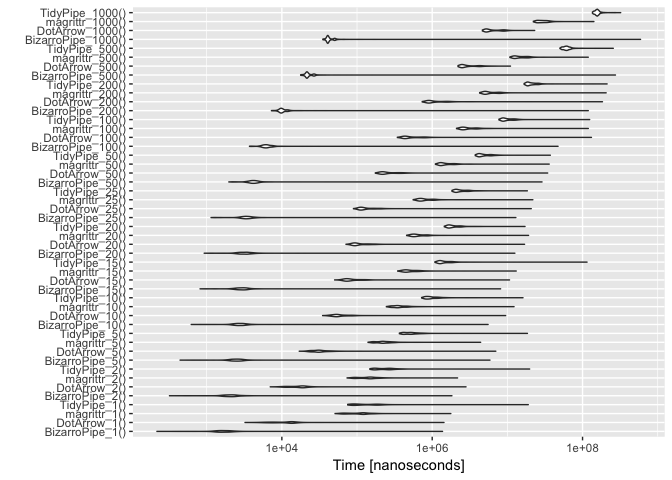
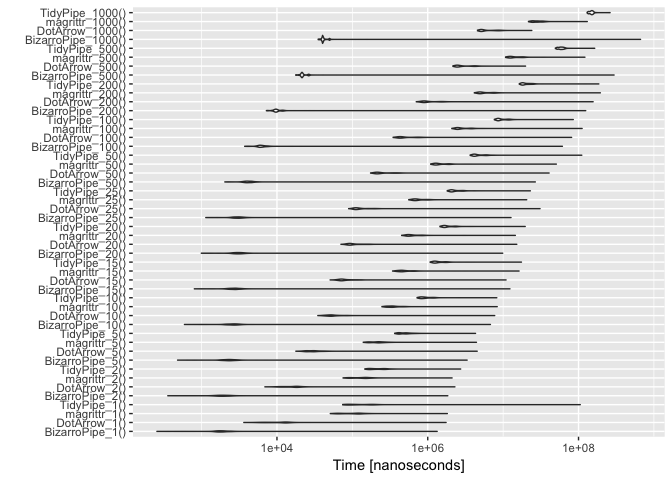
b alone experiment

diff --git a/extras/PipePerformance.md b/extras/PipePerformance.md
@@ -149,103 +149,103 @@ print(bm)
 
     ## Unit: nanoseconds
     ##                expr       min          lq         mean      median
-    ##     BizarroPipe_1()       218      1397.0 3.109475e+03      1653.5
-    ##        DotArrow_1()      3238      7599.5 1.274373e+04     12109.5
-    ##        magrittr_1()     51069     76941.5 1.148523e+05    114172.5
-    ##        TidyPipe_1()     75174     91547.5 1.652012e+05    117884.5
-    ##     BizarroPipe_2()       320      1748.5 3.936076e+03      2062.5
-    ##        DotArrow_2()      7009     12872.5 2.009926e+04     17551.5
-    ##        magrittr_2()     73854    106030.0 1.501026e+05    143907.5
-    ##        TidyPipe_2()    148224    176038.0 2.650344e+05    231602.0
-    ##     BizarroPipe_5()       443      2137.0 8.440663e+03      2482.0
-    ##        DotArrow_5()     17042     26224.5 4.039380e+04     30954.5
-    ##        magrittr_5()    140211    186803.5 2.437563e+05    222712.0
-    ##        TidyPipe_5()    366313    429333.5 5.845052e+05    509491.5
-    ##    BizarroPipe_10()       623      2394.0 8.344731e+03      2739.5
-    ##       DotArrow_10()     34869     49264.0 7.343193e+04     55587.5
-    ##       magrittr_10()    245946    310488.0 4.154114e+05    354013.5
-    ##       TidyPipe_10()    723450    838566.5 1.068695e+06    936349.5
-    ##    BizarroPipe_15()       817      2511.5 1.109206e+04      2920.0
-    ##       DotArrow_15()     50378     70260.0 1.014334e+05     78234.5
-    ##       magrittr_15()    347544    433219.5 5.595113e+05    485352.5
-    ##       TidyPipe_15()   1087761   1250994.5 1.702316e+06   1361850.0
-    ##    BizarroPipe_20()       927      2722.5 1.583884e+04      3181.5
-    ##       DotArrow_20()     71378     90644.5 1.304372e+05     98714.0
-    ##       magrittr_20()    457445    551873.0 7.120750e+05    615352.0
-    ##       TidyPipe_20()   1449843   1654513.0 2.054775e+06   1814017.5
-    ##    BizarroPipe_25()      1144      2980.5 1.638177e+04      3370.5
-    ##       DotArrow_25()     89626    109885.0 1.601126e+05    120508.0
-    ##       magrittr_25()    558557    677632.5 8.563041e+05    744380.0
-    ##       TidyPipe_25()   1833798   2060648.5 2.585369e+06   2260987.5
-    ##    BizarroPipe_50()      1973      3760.5 3.314512e+04      4173.5
-    ##       DotArrow_50()    175390    211465.5 3.068196e+05    232438.5
-    ##       magrittr_50()   1104993   1286926.5 1.664156e+06   1410583.5
-    ##       TidyPipe_50()   3742446   4175182.5 5.083042e+06   4598547.0
-    ##   BizarroPipe_100()      3712      5702.5 5.363308e+04      6243.5
-    ##      DotArrow_100()    344215    425149.0 7.031771e+05    468162.5
-    ##      magrittr_100()   2107606   2508324.5 3.325931e+06   2777386.0
-    ##      TidyPipe_100()   7726495   8718501.5 1.088712e+07   9518883.0
-    ##   BizarroPipe_200()      7275      9484.0 1.297401e+05     10017.0
-    ##      DotArrow_200()    736451    885058.0 1.364754e+06    966577.0
-    ##      magrittr_200()   4279834   4977490.0 6.386656e+06   5442331.0
-    ##      TidyPipe_200()  16723246  18520060.5 2.198805e+07  20122123.0
-    ##   BizarroPipe_500()     17810     21170.5 2.972812e+05     21803.0
-    ##      DotArrow_500()   2210000   2462117.0 3.148965e+06   2665635.5
-    ##      magrittr_500()  10810548  12515482.0 1.548989e+07  14198635.0
-    ##      TidyPipe_500()  50019184  56973590.5 6.269668e+07  61106726.5
-    ##  BizarroPipe_1000()     35102     40348.5 6.349440e+05     41203.0
-    ##     DotArrow_1000()   4660448   5210341.0 6.685229e+06   5720847.0
-    ##     magrittr_1000()  22192683  25681100.0 3.088134e+07  29275654.0
-    ##     TidyPipe_1000() 135666126 149513024.0 1.589639e+08 156397013.0
+    ##     BizarroPipe_1()       256      1615.0 3.192484e+03      1825.5
+    ##        DotArrow_1()      3637      7481.5 1.263640e+04     11613.0
+    ##        magrittr_1()     51069     71147.0 1.070230e+05    106340.5
+    ##        TidyPipe_1()     74490     89893.0 2.431539e+05    114490.0
+    ##     BizarroPipe_2()       357      1628.0 3.766533e+03      1904.0
+    ##        DotArrow_2()      6924     12427.5 1.859578e+04     16817.5
+    ##        magrittr_2()     75423     99747.5 1.434201e+05    137132.5
+    ##        TidyPipe_2()    146635    171530.5 2.290960e+05    209813.0
+    ##     BizarroPipe_5()       481      1980.0 5.619438e+03      2302.0
+    ##        DotArrow_5()     17834     25026.5 3.657069e+04     29377.5
+    ##        magrittr_5()    139718    175026.0 2.297319e+05    217663.0
+    ##        TidyPipe_5()    364502    418537.0 5.186365e+05    487692.5
+    ##    BizarroPipe_10()       593      2218.5 9.377049e+03      2601.0
+    ##       DotArrow_10()     34859     47145.5 7.013821e+04     53036.5
+    ##       magrittr_10()    246990    296851.5 3.740964e+05    336217.5
+    ##       TidyPipe_10()    722505    813783.0 9.730012e+05    891414.5
+    ##    BizarroPipe_15()       802      2337.5 1.499844e+04      2697.5
+    ##       DotArrow_15()     50773     68696.0 9.256872e+04     74612.5
+    ##       magrittr_15()    341807    421517.5 5.444699e+05    465411.5
+    ##       TidyPipe_15()   1076303   1217650.5 1.460480e+06   1309399.5
+    ##    BizarroPipe_20()       993      2707.5 1.292659e+04      3053.0
+    ##       DotArrow_20()     70635     89163.5 1.253219e+05     96330.5
+    ##       magrittr_20()    451143    538900.5 6.733380e+05    591937.5
+    ##       TidyPipe_20()   1452405   1630999.5 1.943026e+06   1741798.0
+    ##    BizarroPipe_25()      1138      2664.5 1.574394e+04      3016.5
+    ##       DotArrow_25()     89358    108186.5 1.670622e+05    117466.5
+    ##       magrittr_25()    560335    657390.0 8.388829e+05    716901.0
+    ##       TidyPipe_25()   1815905   2037106.0 2.417820e+06   2169047.5
+    ##    BizarroPipe_50()      2037      3745.0 3.088958e+04      4132.5
+    ##       DotArrow_50()    174630    207632.0 3.221167e+05    224876.5
+    ##       magrittr_50()   1094121   1246193.0 1.586008e+06   1344659.0
+    ##       TidyPipe_50()   3653880   4093551.5 5.065353e+06   4336429.5
+    ##   BizarroPipe_100()      3732      5727.0 6.735199e+04      6142.5
+    ##      DotArrow_100()    347659    417946.5 6.344029e+05    452932.0
+    ##      magrittr_100()   2087642   2435133.0 3.278632e+06   2614943.0
+    ##      TidyPipe_100()   7648418   8485151.0 9.819652e+06   8985248.5
+    ##   BizarroPipe_200()      7247      9318.0 1.346036e+05      9802.5
+    ##      DotArrow_200()    705073    871457.0 1.280340e+06    936726.5
+    ##      magrittr_200()   4150802   4842296.5 6.078607e+06   5233604.5
+    ##      TidyPipe_200()  16393443  17980594.5 2.072715e+07  19139955.0
+    ##   BizarroPipe_500()     17766     21082.0 3.184940e+05     21594.5
+    ##      DotArrow_500()   2161012   2413966.5 3.072166e+06   2576519.5
+    ##      magrittr_500()  10774015  12223250.0 1.485405e+07  13259145.0
+    ##      TidyPipe_500()  49385605  54315471.0 5.949916e+07  58385123.0
+    ##  BizarroPipe_1000()     35216     40031.0 7.066517e+05     40623.0
+    ##     DotArrow_1000()   4579572   5061779.0 6.357852e+06   5372447.0
+    ##     magrittr_1000()  21709287  24809887.5 2.904306e+07  27935901.0
+    ##     TidyPipe_1000() 130058806 140882253.0 1.488110e+08 148625313.5
     ##           uq       max neval
-    ##       2005.0   1371813  1000
-    ##      13867.0   1434366  1000
-    ##     129594.0   1768695  1000
-    ##     183349.0  18963935  1000
-    ##       2406.0   1827841  1000
-    ##      19988.5   2816118  1000
-    ##     167296.0   2174940  1000
-    ##     282599.5  19782742  1000
-    ##       2874.5   5863130  1000
-    ##      36396.0   7013798  1000
-    ##     265092.0   4406331  1000
-    ##     610405.0  18482301  1000
-    ##       3143.5   5536736  1000
-    ##      68791.5   9487947  1000
-    ##     431857.0  12257768  1000
-    ##    1134520.0  16129228  1000
-    ##       3345.5   8126805  1000
-    ##      95726.5  10677673  1000
-    ##     608841.5  13105074  1000
-    ##    1706243.0 114707611  1000
-    ##       3678.0  12574343  1000
-    ##     129267.5  16924244  1000
-    ##     770767.0  19133834  1000
-    ##    2249966.0  17156906  1000
-    ##       3809.5  12966902  1000
-    ##     157527.0  20774559  1000
-    ##     959189.5  21815994  1000
-    ##    2868463.0  18438574  1000
-    ##       4627.5  28877616  1000
-    ##     318863.0  34361583  1000
-    ##    1806746.5  35988623  1000
-    ##    5765907.5  37271803  1000
-    ##       6951.0  47196303  1000
-    ##     679238.0 131264362  1000
-    ##    3646445.5 119240549  1000
-    ##   11771859.0 124326385  1000
-    ##      11251.0 119140479  1000
-    ##    1382703.5 183948726  1000
-    ##    7258105.0 205958593  1000
-    ##   23548920.0 212091694  1000
-    ##      24885.0 273875249  1000
-    ##    3785857.0  10995095  1000
-    ##   17776844.5 119153731  1000
-    ##   65611460.5 256307063  1000
-    ##      46789.5 590439319  1000
-    ##    8360729.5  23072622  1000
-    ##   33645249.5 141451526  1000
-    ##  163852591.0 321431153  1000
+    ##       2111.0   1332888  1000
+    ##      13379.5   1750491  1000
+    ##     125599.0   1818718  1000
+    ##     176617.0 105414055  1000
+    ##       2248.0   1844480  1000
+    ##      18996.0   2291187  1000
+    ##     156628.0   2101773  1000
+    ##     263912.5   2733385  1000
+    ##       2616.0   3327978  1000
+    ##      34149.5   4526580  1000
+    ##     250940.5   4426729  1000
+    ##     557284.0   4304524  1000
+    ##       2960.0   6779427  1000
+    ##      61919.5   7728807  1000
+    ##     388290.5   8345992  1000
+    ##    1062059.0   8237483  1000
+    ##       3039.5  12311071  1000
+    ##      87538.5  10930753  1000
+    ##     551094.0  16254991  1000
+    ##    1617975.0  17488666  1000
+    ##       3449.5   9865275  1000
+    ##     115385.0  15168970  1000
+    ##     720515.0  14515395  1000
+    ##    2160344.5  19616299  1000
+    ##       3385.5  12716535  1000
+    ##     138167.0  30863605  1000
+    ##     877055.5  20540004  1000
+    ##    2643379.5  22947411  1000
+    ##       4613.5  26716825  1000
+    ##     305422.5  40690144  1000
+    ##    1748924.0  50784806  1000
+    ##    5482903.5 110405241  1000
+    ##       6742.0  61080420  1000
+    ##     636998.5  80945619  1000
+    ##    3427110.0 111546489  1000
+    ##   11097503.5  85169594  1000
+    ##      10517.0 124513916  1000
+    ##    1330871.5 156119065  1000
+    ##    6893305.5 194743302  1000
+    ##   22308988.0 185766829  1000
+    ##      22639.5 296028455  1000
+    ##    3772038.0  19831350  1000
+    ##   16635142.0 121523713  1000
+    ##   62459526.5 163896351  1000
+    ##      42482.5 664177613  1000
+    ##    7787508.5  23992776  1000
+    ##   32278521.0 130573433  1000
+    ##  154210217.5 261977739  1000
 
 ``` r
 autoplot(bm)
@@ -320,18 +320,18 @@ print(dfits)
 ```
 
     ##         method           coef      Estimate   Std. Error      Pr(>|t|)
-    ## 1  BizarroPipe    (Intercept)  3.515498e+03 7.067359e+04  9.603282e-01
-    ## 2  BizarroPipe I(size * size)  6.754961e-02 7.669598e-01  9.298189e-01
-    ## 3  BizarroPipe           size  5.630833e+02 7.388308e+02  4.459989e-01
-    ## 4     DotArrow    (Intercept)  1.871423e+04 2.565297e+04  4.657007e-01
-    ## 5     DotArrow I(size * size)  4.842801e-01 2.783897e-01  8.195907e-02
-    ## 6     DotArrow           size  6.167833e+03 2.681794e+02 1.408941e-114
-    ## 7     magrittr    (Intercept)  1.070088e+05 4.761332e+04  2.462900e-02
-    ## 8     magrittr I(size * size) -3.441200e-01 5.167066e-01  5.054320e-01
-    ## 9     magrittr           size  3.110195e+04 4.977558e+02  0.000000e+00
-    ## 10    TidyPipe    (Intercept)  2.539726e+05 8.564422e+04  3.028469e-03
-    ## 11    TidyPipe I(size * size)  6.536292e+01 9.294232e-01  0.000000e+00
-    ## 12    TidyPipe           size  9.324256e+04 8.953357e+02  0.000000e+00
+    ## 1  BizarroPipe    (Intercept)  3.659123e+03 7.883748e+04  9.629815e-01
+    ## 2  BizarroPipe I(size * size)  1.173197e-01 8.555555e-01  8.909327e-01
+    ## 3  BizarroPipe           size  5.844061e+02 8.241772e+02  4.782897e-01
+    ## 4     DotArrow    (Intercept)  1.299926e+04 2.115258e+04  5.388655e-01
+    ## 5     DotArrow I(size * size)  2.980349e-01 2.295508e-01  1.941956e-01
+    ## 6     DotArrow           size  6.040031e+03 2.211318e+02 2.042749e-159
+    ## 7     magrittr    (Intercept)  9.352299e+04 4.322001e+04  3.049308e-02
+    ## 8     magrittr I(size * size) -1.335007e+00 4.690296e-01  4.430314e-03
+    ## 9     magrittr           size  3.027475e+04 4.518275e+02  0.000000e+00
+    ## 10    TidyPipe    (Intercept)  1.637472e+05 6.747282e+04  1.524472e-02
+    ## 11    TidyPipe I(size * size)  5.889391e+01 7.322247e-01  0.000000e+00
+    ## 12    TidyPipe           size  8.970535e+04 7.053696e+02  0.000000e+00
 
 ``` r
 # re-run with non-negative least squares
@@ -361,18 +361,63 @@ dfitsnn <- d %.>%
 print(dfitsnn)
 ```
 
-    ##         method        coef     Estimate
-    ## 1  BizarroPipe (Intercept) 6.889660e+02
-    ## 2  BizarroPipe        size 6.176928e+02
-    ## 3  BizarroPipe      sizesq 1.281390e-02
-    ## 4     DotArrow (Intercept) 1.671043e+04
-    ## 5     DotArrow        size 6.206547e+03
-    ## 6     DotArrow      sizesq 4.454765e-01
-    ## 7     magrittr (Intercept) 1.210439e+05
-    ## 8     magrittr        size 3.078188e+04
-    ## 9     magrittr      sizesq 0.000000e+00
-    ## 10    TidyPipe (Intercept) 2.232033e+05
-    ## 11    TidyPipe        size 9.383703e+04
-    ## 12    TidyPipe      sizesq 6.476707e+01
+    ##         method        coef      Estimate
+    ## 1  BizarroPipe (Intercept) -1.249981e+03
+    ## 2  BizarroPipe        size  6.792517e+02
+    ## 3  BizarroPipe      sizesq  2.225510e-02
+    ## 4     DotArrow (Intercept)  1.124829e+04
+    ## 5     DotArrow        size  6.073860e+03
+    ## 6     DotArrow      sizesq  2.641274e-01
+    ## 7     magrittr (Intercept)  1.479718e+05
+    ## 8     magrittr        size  2.903301e+04
+    ## 9     magrittr      sizesq  0.000000e+00
+    ## 10    TidyPipe (Intercept)  1.340095e+05
+    ## 11    TidyPipe        size  9.027990e+04
+    ## 12    TidyPipe      sizesq  5.831804e+01
 
 A note on the rare very slow events with `Bizarro Pipe`. My *guess* is given `Bizarro Pipe` is the only pipe that gets translated into a multi-line/multi-statement/many-visible-assigments function (i.e., more than one expression) that possibly gives it more changes to win the "garbage collection lottery" and pay for everybody's object clean-up. I don't actually know `R`'s `gc()` trigger strategy, so this is just speculation on my part.
+
+We can try to confirm this be re-running the performance measurement on just `Bizarro Pipe` alone and seeing if the large events disappear.
+
+``` r
+cmdb <- parse(text=paste0(
+  "microbenchmark(\n ",
+  paste(paste0(fList$expr[fList$fn=='BizarroPipe'],'()'), collapse=',\n '),
+  ", 
+  times=1000L
+  )\n"
+))
+
+print(cmdb)
+```
+
+    ## expression(microbenchmark(BizarroPipe_1(), BizarroPipe_2(), BizarroPipe_5(), 
+    ##     BizarroPipe_10(), BizarroPipe_15(), BizarroPipe_20(), BizarroPipe_25(), 
+    ##     BizarroPipe_50(), BizarroPipe_100(), BizarroPipe_200(), BizarroPipe_500(), 
+    ##     BizarroPipe_1000(), times = 1000L))
+
+``` r
+bmb <- eval(cmdb)
+print(bmb)
+```
+
+    ## Unit: nanoseconds
+    ##                expr   min      lq      mean  median      uq    max neval
+    ##     BizarroPipe_1()   228   252.0   290.950   269.0   300.0   1869  1000
+    ##     BizarroPipe_2()   276   304.0   345.147   325.0   363.0   1777  1000
+    ##     BizarroPipe_5()   400   423.0   487.808   454.5   495.0   9490  1000
+    ##    BizarroPipe_10()   573   599.0   648.923   619.0   661.5   4290  1000
+    ##    BizarroPipe_15()   744   773.0   827.752   797.0   832.0   9180  1000
+    ##    BizarroPipe_20()   915   951.0  1010.694   980.0  1021.0  10173  1000
+    ##    BizarroPipe_25()  1090  1120.0  1191.674  1141.0  1185.0  17328  1000
+    ##    BizarroPipe_50()  1960  1994.0  2048.100  2016.0  2058.0   4397  1000
+    ##   BizarroPipe_100()  3693  3739.0  3863.458  3768.0  3813.0  22362  1000
+    ##   BizarroPipe_200()  7147  7215.0  7312.862  7245.0  7290.0  17284  1000
+    ##   BizarroPipe_500() 17521 17678.5 18041.901 17726.0 17781.0  84855  1000
+    ##  BizarroPipe_1000() 34801 35080.0 35693.170 35148.0 35220.0 124816  1000
+
+``` r
+autoplot(bmb)
+```
+
+![](PipePerformance_files/figure-markdown_github/bpalone-1.png)
